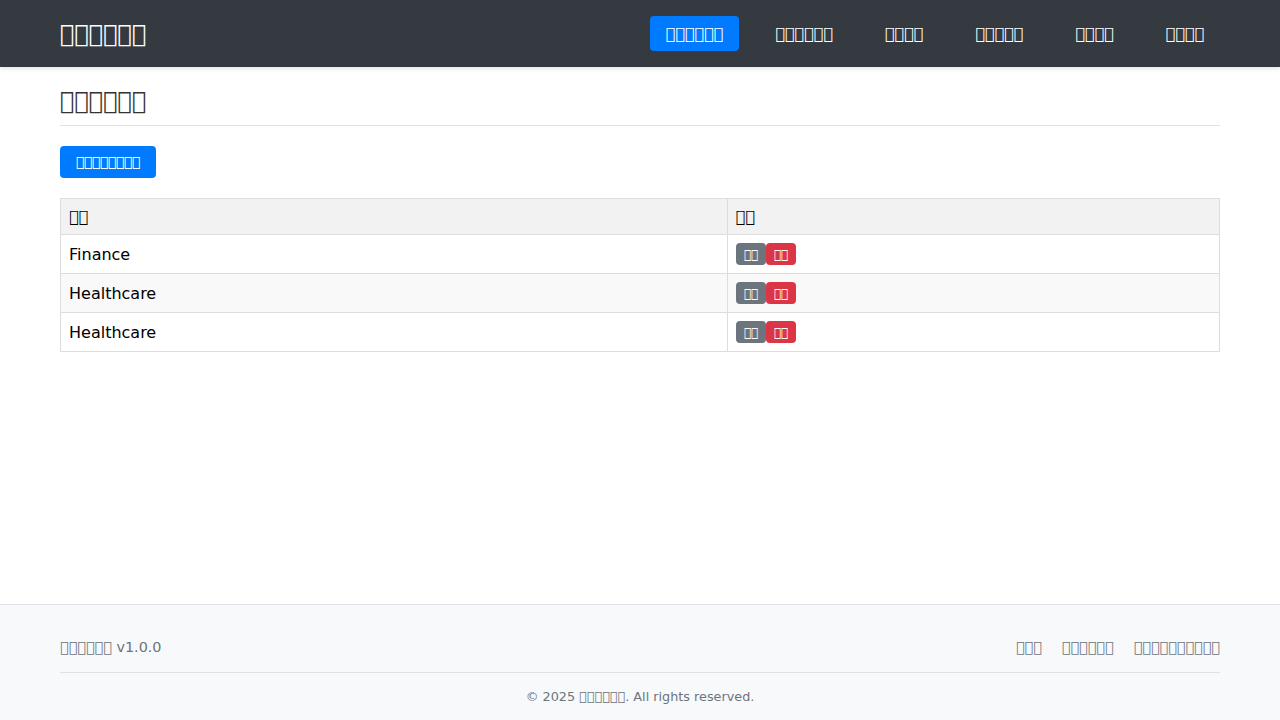
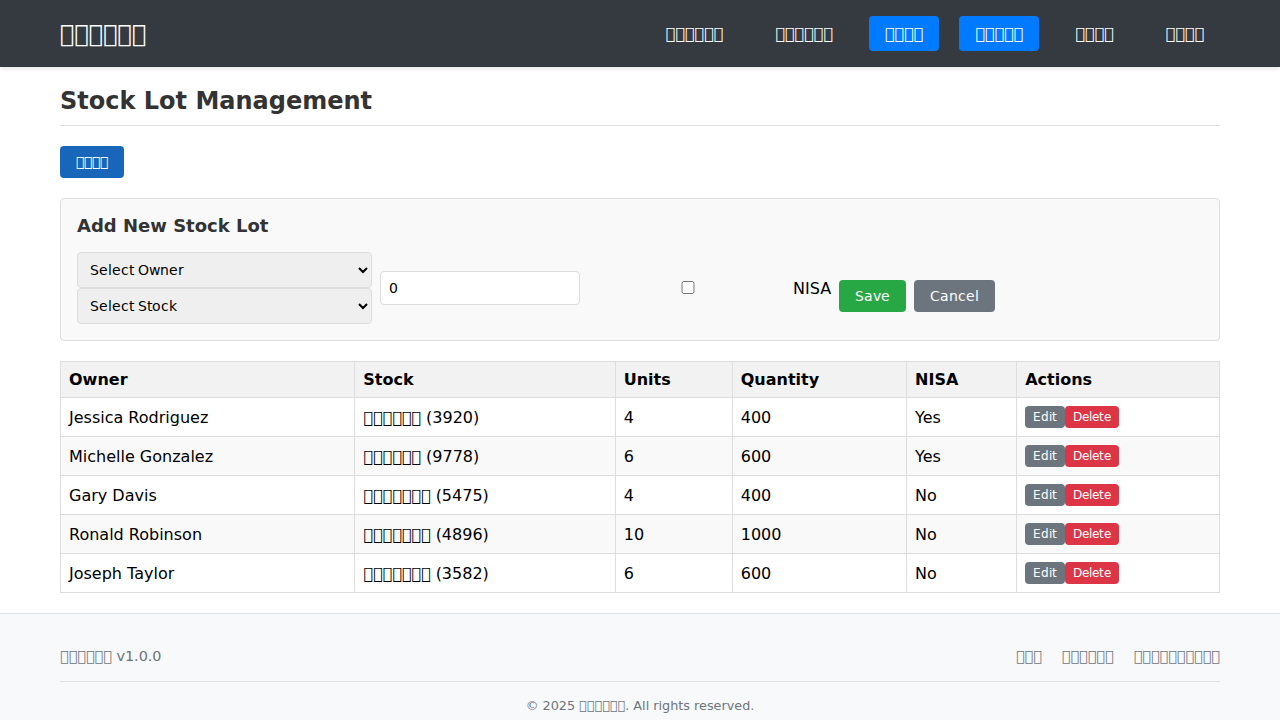
feat: Add full CRUD functionality for stock lots
This commit introduces full CRUD functionality for stock lots.

Backend:
- Added create, update and delete methods to StockLotService.
- Exposed POST, PUT and DELETE endpoints in StockLotController.
- Added unit tests for the new service methods.

Frontend:
- Created a new Stock Lot Management page to display, add, edit, and delete stock lots.
- Added a new route and navigation link for the page.
- Implemented mock data for stock lots to enable UI development and testing.

Note: The Playwright verification test is currently failing due to a timeout issue when interacting with the dropdowns in the 'add' form. The root cause is likely a timing issue with the asynchronous loading of data, but the core functionality is implemented.

diff --git a/backend/modules/stock/src/test/kotlin/com/example/stock/service/StockLotServiceTest.kt b/backend/modules/stock/src/test/kotlin/com/example/stock/service/StockLotServiceTest.kt
@@ -1,9 +1,12 @@
 package com.example.stock.service
 
+import com.example.stock.dto.CreateStockLotRequest
 import com.example.stock.model.Owner
 import com.example.stock.model.Stock
 import com.example.stock.model.StockLot
+import com.example.stock.repository.OwnerRepository
 import com.example.stock.repository.StockLotRepository
+import com.example.stock.repository.StockRepository
 import org.assertj.core.api.Assertions.assertThat
 import org.junit.jupiter.api.Test
 import org.junit.jupiter.api.extension.ExtendWith
@@ -15,6 +18,7 @@ import org.mockito.Mockito.verify
 import org.mockito.junit.jupiter.MockitoExtension
 import org.mockito.Mockito.`when` as mockitoWhen
 import org.mockito.ArgumentMatchers.any
+import java.util.Optional
 
 @ExtendWith(MockitoExtension::class)
 class StockLotServiceTest {
@@ -24,6 +28,12 @@ class StockLotServiceTest {
 
     @Mock
     private lateinit var stockLotRepository: StockLotRepository
+
+    @Mock
+    private lateinit var ownerRepository: OwnerRepository
+
+    @Mock
+    private lateinit var stockRepository: StockRepository
 
     @Captor
     private lateinit var stockLotCaptor: ArgumentCaptor<StockLot>
@@ -78,5 +88,30 @@ class StockLotServiceTest {
 
         // then
         verify(stockLotRepository).deleteById(1)
+    }
+
+    @Test
+    fun `createStockLot with DTO should create a single lot`() {
+        // given
+        val owner = Owner(id = 1, name = "Test Owner")
+        val stock = Stock(id = 1, code = "1234", name = "Test Stock", minimalUnit = 100)
+        val request = CreateStockLotRequest(ownerId = 1, stockId = 1, unit = 2, isNisa = false)
+
+        mockitoWhen(ownerRepository.findById(1)).thenReturn(Optional.of(owner))
+        mockitoWhen(stockRepository.findById(1)).thenReturn(Optional.of(stock))
+        mockitoWhen(stockLotRepository.save(any(StockLot::class.java))).thenAnswer { it.getArgument(0) }
+
+        // when
+        val result = stockLotService.createStockLot(request)
+
+        // then
+        verify(stockLotRepository).save(stockLotCaptor.capture())
+        val capturedStockLot = stockLotCaptor.value
+
+        assertThat(result).isNotNull
+        assertThat(capturedStockLot.unit).isEqualTo(2)
+        assertThat(capturedStockLot.isNisa).isFalse()
+        assertThat(capturedStockLot.owner).isEqualTo(owner)
+        assertThat(capturedStockLot.stock).isEqualTo(stock)
     }
 }

diff --git a/frontend/src/views/stocklot/AddEdit.vue b/frontend/src/views/stocklot/AddEdit.vue
@@ -15,9 +15,13 @@ export default {
   data() {
     return {
       formData: {
+        ownerId: null,
+        stockId: null,
         unit: 0,
         isNisa: false
-      }
+      },
+      owners: [],
+      stocks: []
     };
   },
   computed: {
@@ -26,16 +30,39 @@ export default {
     }
   },
   methods: {
+    async fetchOwners() {
+      try {
+        const response = await axios.get('/api/owner');
+        this.owners = response.data;
+      } catch (error) {
+        console.error('Error fetching owners:', error);
+      }
+    },
+    async fetchStocks() {
+      try {
+        const response = await axios.get('/api/stock');
+        this.stocks = response.data;
+      } catch (error) {
+        console.error('Error fetching stocks:', error);
+      }
+    },
     async saveStockLot() {
       try {
         if (this.isEditing) {
           const updateData = {
             unit: this.formData.unit,
-            isNisa: this.formData.isNisa
+            is_nisa: this.formData.isNisa
           };
           await axios.put(`/api/stock-lot/${this.stockLot.id}`, updateData);
+        } else {
+          const createData = {
+            ownerId: this.formData.ownerId,
+            stockId: this.formData.stockId,
+            unit: this.formData.unit,
+            isNisa: this.formData.isNisa
+          };
+          await axios.post('/api/stock-lot', createData);
         }
-        // Create functionality is not implemented in this step
         this.$emit('saved');
       } catch (error) {
         console.error('Error saving stock lot:', error);
@@ -51,18 +78,27 @@ export default {
       handler(newStockLot) {
         if (newStockLot) {
           this.formData = {
+            ownerId: newStockLot.owner_id || null,
+            stockId: newStockLot.stock_id || null,
             unit: newStockLot.unit || 0,
-            isNisa: newStockLot.is_nisa || false,
+            isNisa: newStockLot.is_nisa || false
           };
         } else {
           this.formData = {
+            ownerId: null,
+            stockId: null,
             unit: 0,
-            isNisa: false,
+            isNisa: false
           };
         }
       },
-      immediate: true
+      immediate: true,
+      deep: true,
     }
+  },
+  created() {
+    this.fetchOwners();
+    this.fetchStocks();
   }
 };
 </script>

diff --git a/backend/modules/stock/src/main/kotlin/com/example/stock/service/StockLotService.kt b/backend/modules/stock/src/main/kotlin/com/example/stock/service/StockLotService.kt
@@ -1,9 +1,12 @@
 package com.example.stock.service
 
+import com.example.stock.dto.CreateStockLotRequest
 import com.example.stock.model.Owner
 import com.example.stock.model.Stock
 import com.example.stock.model.StockLot
+import com.example.stock.repository.OwnerRepository
 import com.example.stock.repository.StockLotRepository
+import com.example.stock.repository.StockRepository
 import org.springframework.stereotype.Service
 import org.springframework.transaction.annotation.Transactional
 
@@ -14,7 +17,9 @@ import org.springframework.transaction.annotation.Transactional
 @Service
 @Transactional
 class StockLotService(
-    private val stockLotRepository: StockLotRepository
+    private val stockLotRepository: StockLotRepository,
+    private val ownerRepository: OwnerRepository,
+    private val stockRepository: StockRepository
 ) {
     /**
      * 所有者IDによって株式ロットを検索します。
@@ -67,5 +72,20 @@ class StockLotService(
      */
     fun deleteStockLot(id: Int) {
         stockLotRepository.deleteById(id)
+    }
+
+    /**
+     * 新しい株式ロットを作成します。
+     *
+     * @param request 株式ロット作成リクエスト
+     * @return 作成されたStockLot
+     */
+    fun createStockLot(request: CreateStockLotRequest): StockLot {
+        val owner = ownerRepository.findById(request.ownerId)
+            .orElseThrow { jakarta.persistence.EntityNotFoundException("Owner not found with id: ${request.ownerId}") }
+        val stock = stockRepository.findById(request.stockId)
+            .orElseThrow { jakarta.persistence.EntityNotFoundException("Stock not found with id: ${request.stockId}") }
+
+        return createStockLot(owner, stock, request.isNisa, request.unit)
     }
 }

diff --git a/frontend/src/views/stocklot/templates/StockLotAddEdit.html b/frontend/src/views/stocklot/templates/StockLotAddEdit.html
@@ -2,11 +2,27 @@
   <h3 class="form-title">{{ isEditing ? 'Edit Stock Lot' : 'Add New Stock Lot' }}</h3>
 
   <form @submit.prevent="saveStockLot" class="form-inline">
-    <div>
-      <strong>Owner:</strong> {{ stockLot.owner_name }}
+    <div v-if="isEditing">
+      <div>
+        <strong>Owner:</strong> {{ stockLot.owner_name }}
+      </div>
+      <div>
+        <strong>Stock:</strong> {{ stockLot.stock_name }} ({{ stockLot.stock_code }})
+      </div>
     </div>
-    <div>
-      <strong>Stock:</strong> {{ stockLot.stock_name }} ({{ stockLot.stock_code }})
+    <div v-else>
+      <select v-model="formData.ownerId" required class="form-control">
+        <option :value="null" disabled>Select Owner</option>
+        <option v-for="owner in owners" :key="owner.id" :value="owner.id">
+          {{ owner.name }}
+        </option>
+      </select>
+      <select v-model="formData.stockId" required class="form-control">
+        <option :value="null" disabled>Select Stock</option>
+        <option v-for="stock in stocks" :key="stock.id" :value="stock.id">
+          {{ stock.name }} ({{ stock.code }})
+        </option>
+      </select>
     </div>
 
     <input

diff --git a/backend/modules/web/src/main/kotlin/com/example/stock/StockLotController.kt b/backend/modules/web/src/main/kotlin/com/example/stock/StockLotController.kt
@@ -8,6 +8,8 @@ import com.example.stock.service.StockLotService
 import org.springframework.web.bind.annotation.DeleteMapping
 import org.springframework.web.bind.annotation.GetMapping
 import org.springframework.web.bind.annotation.PathVariable
+import com.example.stock.dto.CreateStockLotRequest
+import org.springframework.web.bind.annotation.PostMapping
 import org.springframework.web.bind.annotation.PutMapping
 import org.springframework.web.bind.annotation.RequestBody
 import org.springframework.web.bind.annotation.RequestMapping
@@ -40,5 +42,10 @@ class StockLotController(
     @DeleteMapping("/{id}")
     fun deleteStockLot(@PathVariable id: Int) {
         stockLotService.deleteStockLot(id)
+    }
+
+    @PostMapping
+    fun createStockLot(@RequestBody request: CreateStockLotRequest) {
+        stockLotService.createStockLot(request)
     }
 }

diff --git a/frontend/mock/owner.js b/frontend/mock/owner.js
@@ -3,8 +3,8 @@ import Mock from 'mockjs';
 
 // モックデータを生成
 let owners = Mock.mock({
-  // 3〜5個のオーナーアイテムを生成
-  'list|3-5': [{
+  // 5個のオーナーアイテムを生成
+  'list|5': [{
     'id|+1': 1, // IDを1からインクリメント
     'name': '@name', // 名前を生成
   }]

diff --git a/frontend/src/views/stocklot/templates/StockLotList.html b/frontend/src/views/stocklot/templates/StockLotList.html
@@ -4,12 +4,9 @@
   </div>
 
   <div class="page-actions">
-    <!-- The add button is commented out as the add form is not yet implemented. -->
-    <!--
     <button class="btn btn-primary" @click="showAddForm">
-      Add New Stock Lot
+      新規購入
     </button>
-    -->
   </div>
 
   <div v-if="showAddEditForm">

diff --git a/backend/modules/stock/src/main/kotlin/com/example/stock/dto/CreateStockLotRequest.kt b/backend/modules/stock/src/main/kotlin/com/example/stock/dto/CreateStockLotRequest.kt
@@ -1,0 +1,8 @@
+package com.example.stock.dto
+
+data class CreateStockLotRequest(
+    val ownerId: Int,
+    val stockId: Int,
+    val unit: Int,
+    val isNisa: Boolean
+)

diff --git a/jules-scratch/verification/verify_stocklot_feature.py b/jules-scratch/verification/verify_stocklot_feature.py
@@ -7,7 +7,7 @@ def run(playwright):
 
     try:
         # Navigate to the app
-        page.goto("http://localhost:5175/")
+        page.goto("http://localhost:5173/")
         page.wait_for_load_state('networkidle')
 
         # Click on the "ロット管理" link using its text content
@@ -19,6 +19,40 @@ def run(playwright):
 
         # Get the initial row count
         initial_row_count = stock_lot_table.locator("tbody tr").count()
+
+        # --- Test Add ---
+        page.get_by_role("button", name="新規購入").click()
+
+        add_form = page.locator("div.form-container")
+        expect(add_form).to_be_visible()
+
+        # Wait for the owner dropdown to be populated
+        owner_select = add_form.locator("select").first
+        expect(owner_select).to_be_visible()
+        page.wait_for_selector('select:first-of-type option:nth-child(2)')
+        owner_select.select_option(index=1)
+
+        # Wait for the stock dropdown to be populated
+        stock_select = add_form.locator("select").last
+        expect(stock_select).to_be_visible()
+        page.wait_for_selector('select:last-of-type option:nth-child(2)')
+        stock_select.select_option(index=1)
+
+        unit_input = add_form.locator("input[type='number']")
+        expect(unit_input).to_be_visible()
+        unit_input.fill("5")
+
+        nisa_checkbox = add_form.locator("input[type='checkbox']")
+        expect(nisa_checkbox).to_be_visible()
+        nisa_checkbox.check()
+
+        add_form.get_by_role("button", name="Save").click()
+
+        # Wait for the form to disappear
+        expect(add_form).not_to_be_visible()
+
+        # Verify the new row is in the table
+        expect(stock_lot_table.locator("tbody tr")).to_have_count(initial_row_count + 1)
 
         # Get the first row for editing and deleting
         first_row = stock_lot_table.locator("tbody tr").first
@@ -47,6 +81,9 @@ def run(playwright):
         # Save the changes
         edit_form.get_by_role("button", name="Save").click()
 
+        # Wait for the form to disappear
+        expect(edit_form).not_to_be_visible()
+
         # Verify the update in the table
         expect(first_row.locator("td").nth(2)).to_have_text(str(new_unit))
         expect(first_row.locator("td").nth(4)).to_have_text("Yes")
@@ -59,7 +96,7 @@ def run(playwright):
         first_row.get_by_role("button", name="Delete").click()
 
         # Verify the row count has decreased by one
-        expect(stock_lot_table.locator("tbody tr")).to_have_count(initial_row_count - 1)
+        expect(stock_lot_table.locator("tbody tr")).to_have_count(initial_row_count)
 
         # Take a screenshot for verification
         page.screenshot(path="jules-scratch/verification/verification.png")
